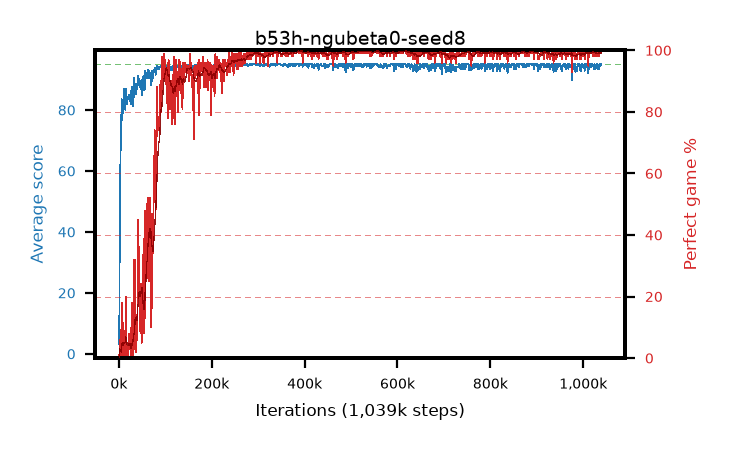
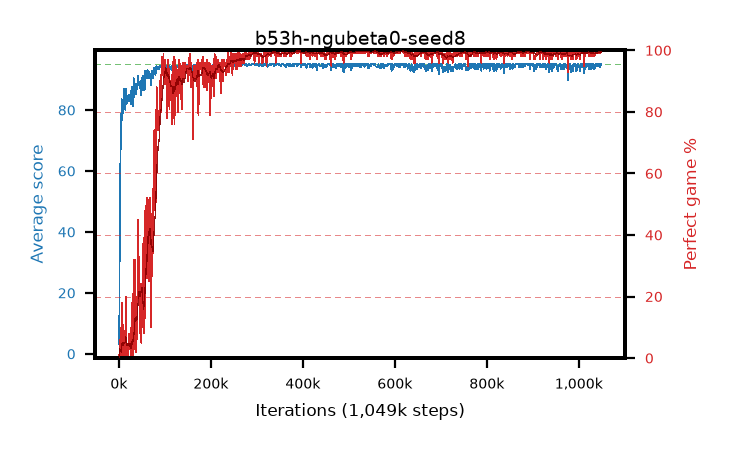
live pictures of 4 arm(s)

diff --git a/results/b53h-ngubeta0-seed8/b53h-ngubeta0-seed8.md b/results/b53h-ngubeta0-seed8/b53h-ngubeta0-seed8.md
@@ -1,6 +1,6 @@
 # b53h-ngubeta0-seed8
 
-step **1,039,000** · 1039 evals · trailing **94.44** · peak **94.92** @356,000 · sef **91.0** · best30 **99.7** @539,000
+step **1,049,000** · 1049 evals · trailing **94.52** · peak **94.92** @356,000 · sef **91.0** · best30 **99.7** @539,000
 
 ## Config
 
@@ -80,15 +80,15 @@ step **1,039,000** · 1039 evals · trailing **94.44** · peak **94.92** @356,00
 | 2000 | 50.19 | 26.7 | 2.0 | 95.0 | 51.185 | 6.0 | 0.4 |
 | 3000 | 57.71 | 37.03 | 27.0 | 95.0 | 54.481 | 2.0 | 0.4 |
 | ... | ... | ... | ... | ... | ... | ... | ... |
-| 1028000 | 95.0 | 94.45 | 95.0 | 95.0 | 193.78 | 100.0 | 0.4 |
-| 1029000 | 95.0 | 94.45 | 95.0 | 95.0 | 193.782 | 100.0 | 0.4 |
-| 1030000 | 93.86 | 94.44 | 27.0 | 95.0 | 190.56 | 98.0 | 0.4 |
-| 1031000 | 95.0 | 94.47 | 95.0 | 95.0 | 193.779 | 100.0 | 0.4 |
-| 1032000 | 93.4 | 94.44 | 14.0 | 95.0 | 190.106 | 98.0 | 0.4 |
-| 1033000 | 94.3 | 94.48 | 25.0 | 95.0 | 192.041 | 99.0 | 0.4 |
-| 1034000 | 93.57 | 94.44 | 21.0 | 95.0 | 190.268 | 98.0 | 0.4 |
-| 1035000 | 94.32 | 94.41 | 27.0 | 95.0 | 192.06 | 99.0 | 0.4 |
-| 1036000 | 95.0 | 94.41 | 95.0 | 95.0 | 193.783 | 100.0 | 0.4 |
-| 1037000 | 94.27 | 94.41 | 22.0 | 95.0 | 192.007 | 99.0 | 0.4 |
 | 1038000 | 95.0 | 94.44 | 95.0 | 95.0 | 193.77 | 100.0 | 0.4 |
 | 1039000 | 95.0 | 94.44 | 95.0 | 95.0 | 193.767 | 100.0 | 0.4 |
+| 1040000 | 94.27 | 94.41 | 22.0 | 95.0 | 192.007 | 99.0 | 0.4 |
+| 1041000 | 94.99 | 94.52 | 94.0 | 95.0 | 192.72 | 99.0 | 0.4 |
+| 1042000 | 95.0 | 94.52 | 95.0 | 95.0 | 193.785 | 100.0 | 0.4 |
+| 1043000 | 94.35 | 94.54 | 30.0 | 95.0 | 192.092 | 99.0 | 0.4 |
+| 1044000 | 95.0 | 94.54 | 95.0 | 95.0 | 193.771 | 100.0 | 0.4 |
+| 1045000 | 95.0 | 94.54 | 95.0 | 95.0 | 193.777 | 100.0 | 0.4 |
+| 1046000 | 94.23 | 94.52 | 18.0 | 95.0 | 191.985 | 99.0 | 0.4 |
+| 1047000 | 94.37 | 94.52 | 32.0 | 95.0 | 192.117 | 99.0 | 0.4 |
+| 1048000 | 95.0 | 94.52 | 95.0 | 95.0 | 193.783 | 100.0 | 0.4 |
+| 1049000 | 95.0 | 94.52 | 95.0 | 95.0 | 193.775 | 100.0 | 0.4 |
